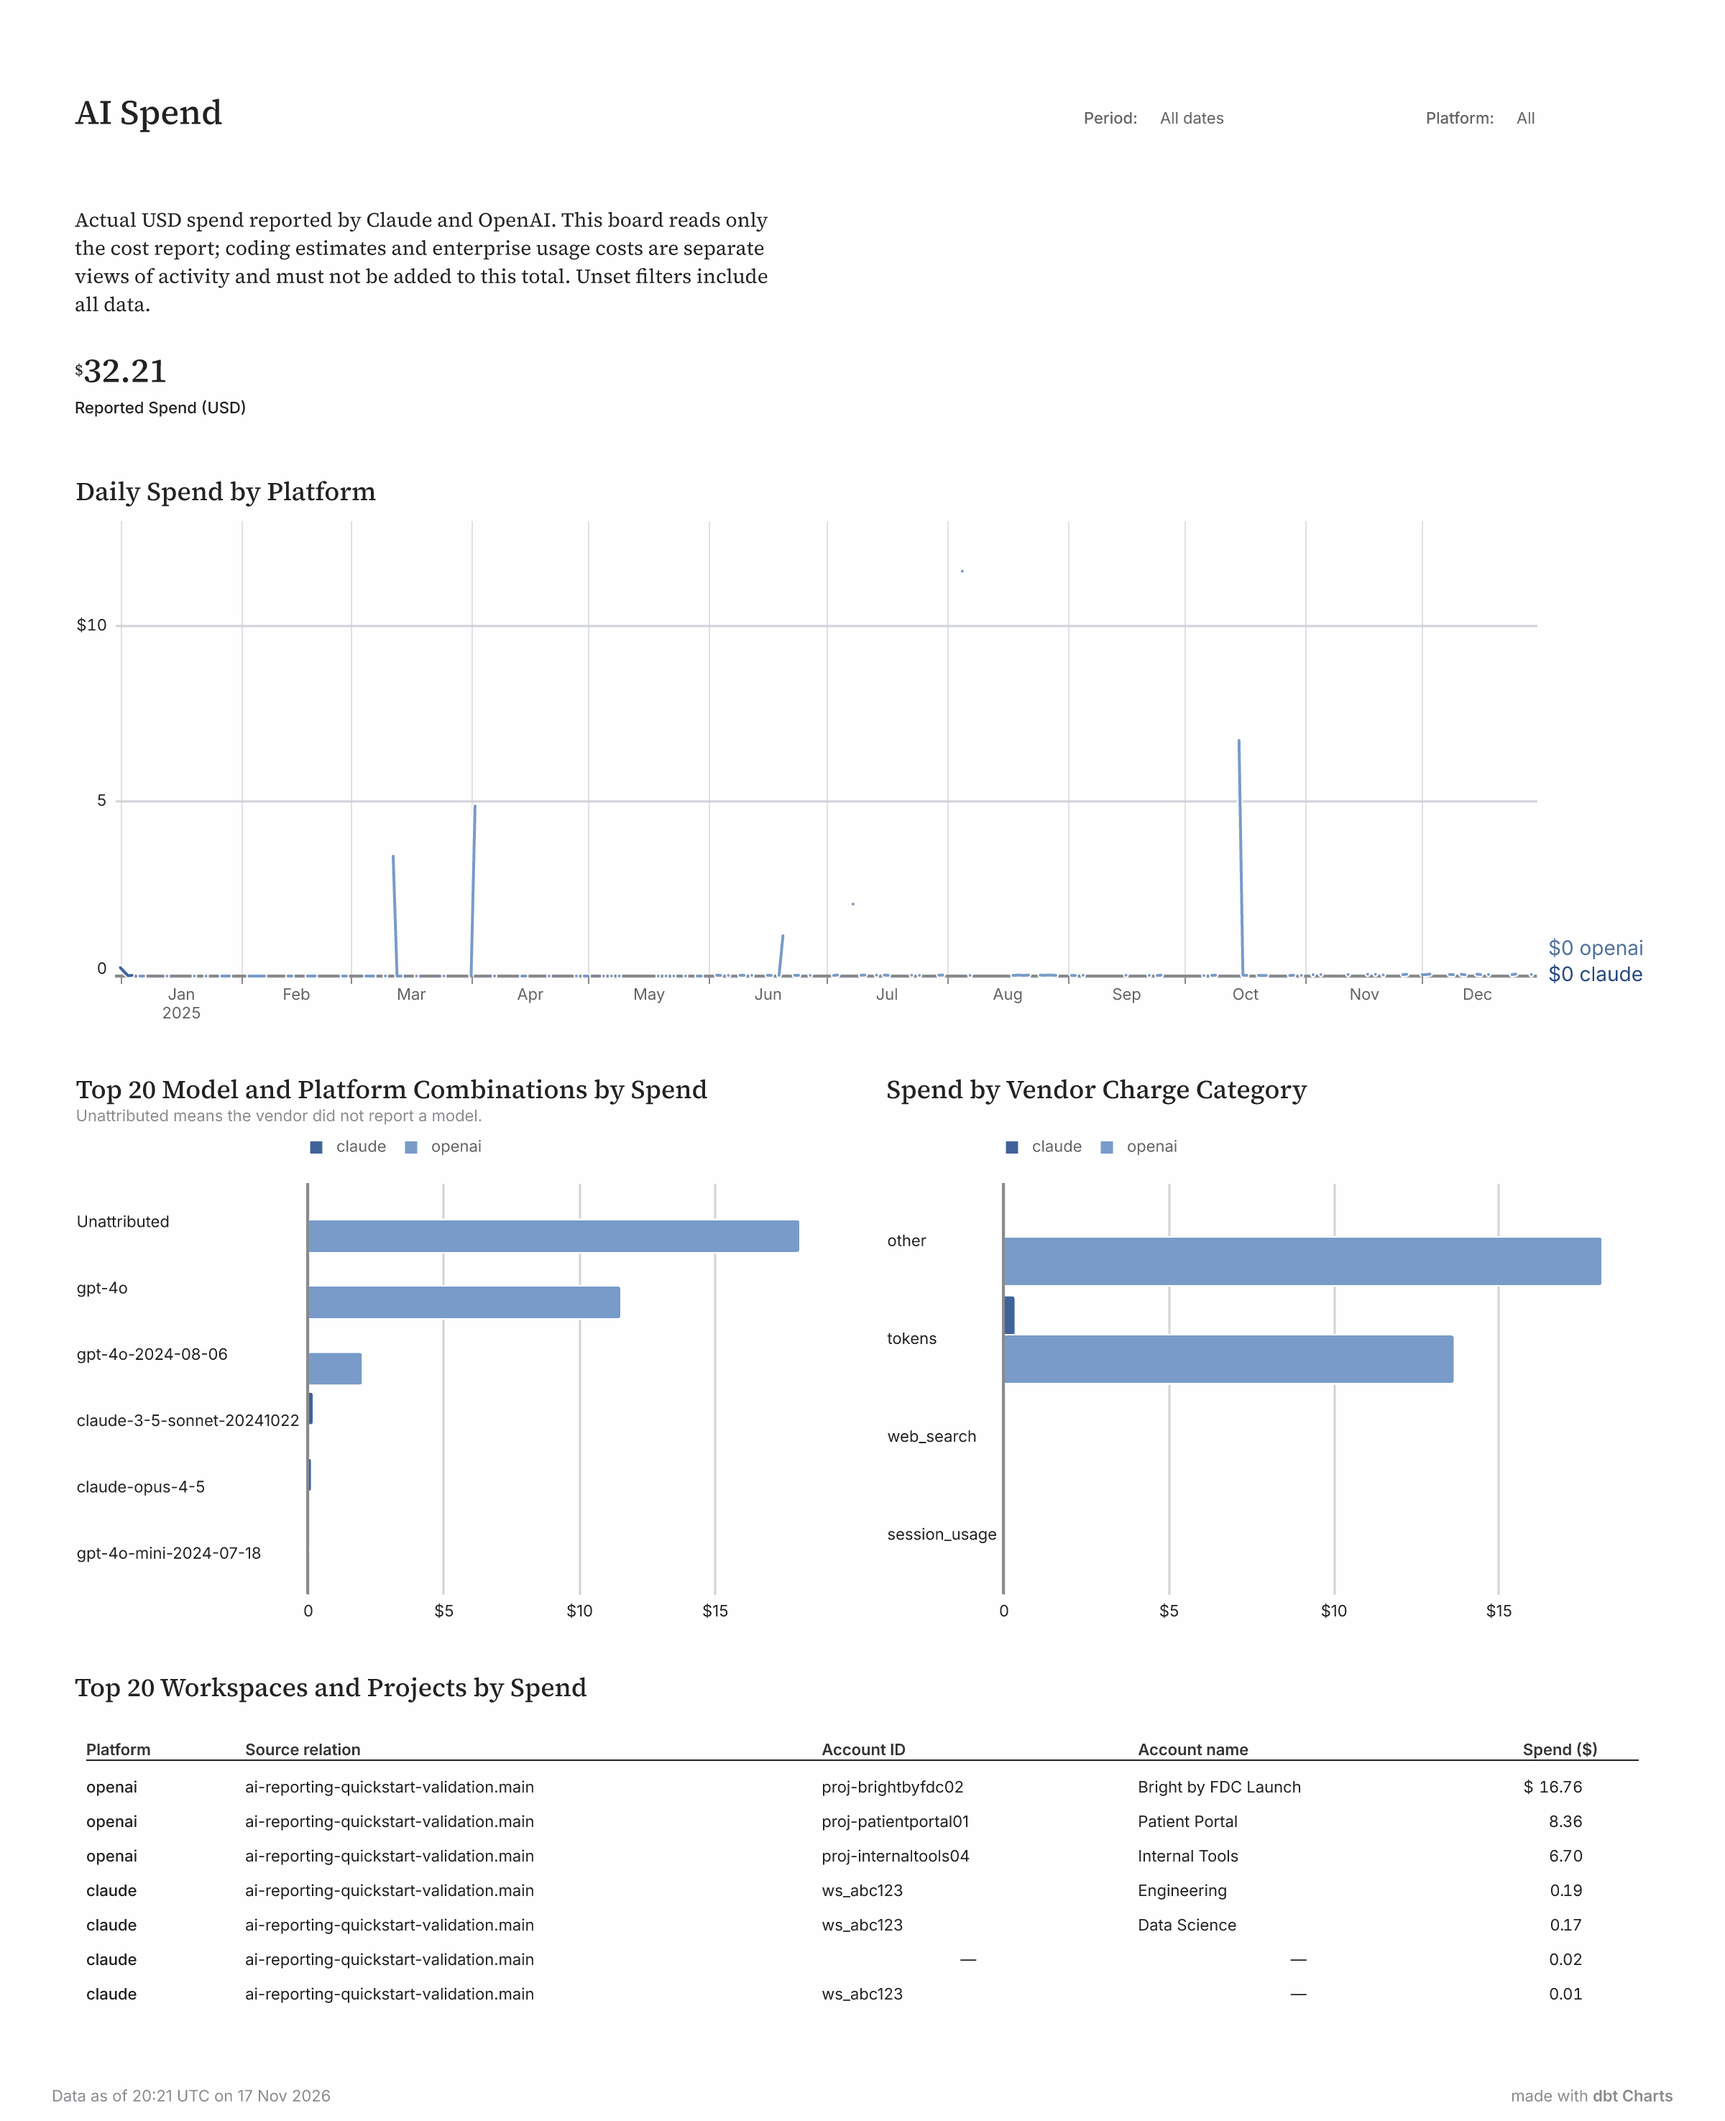
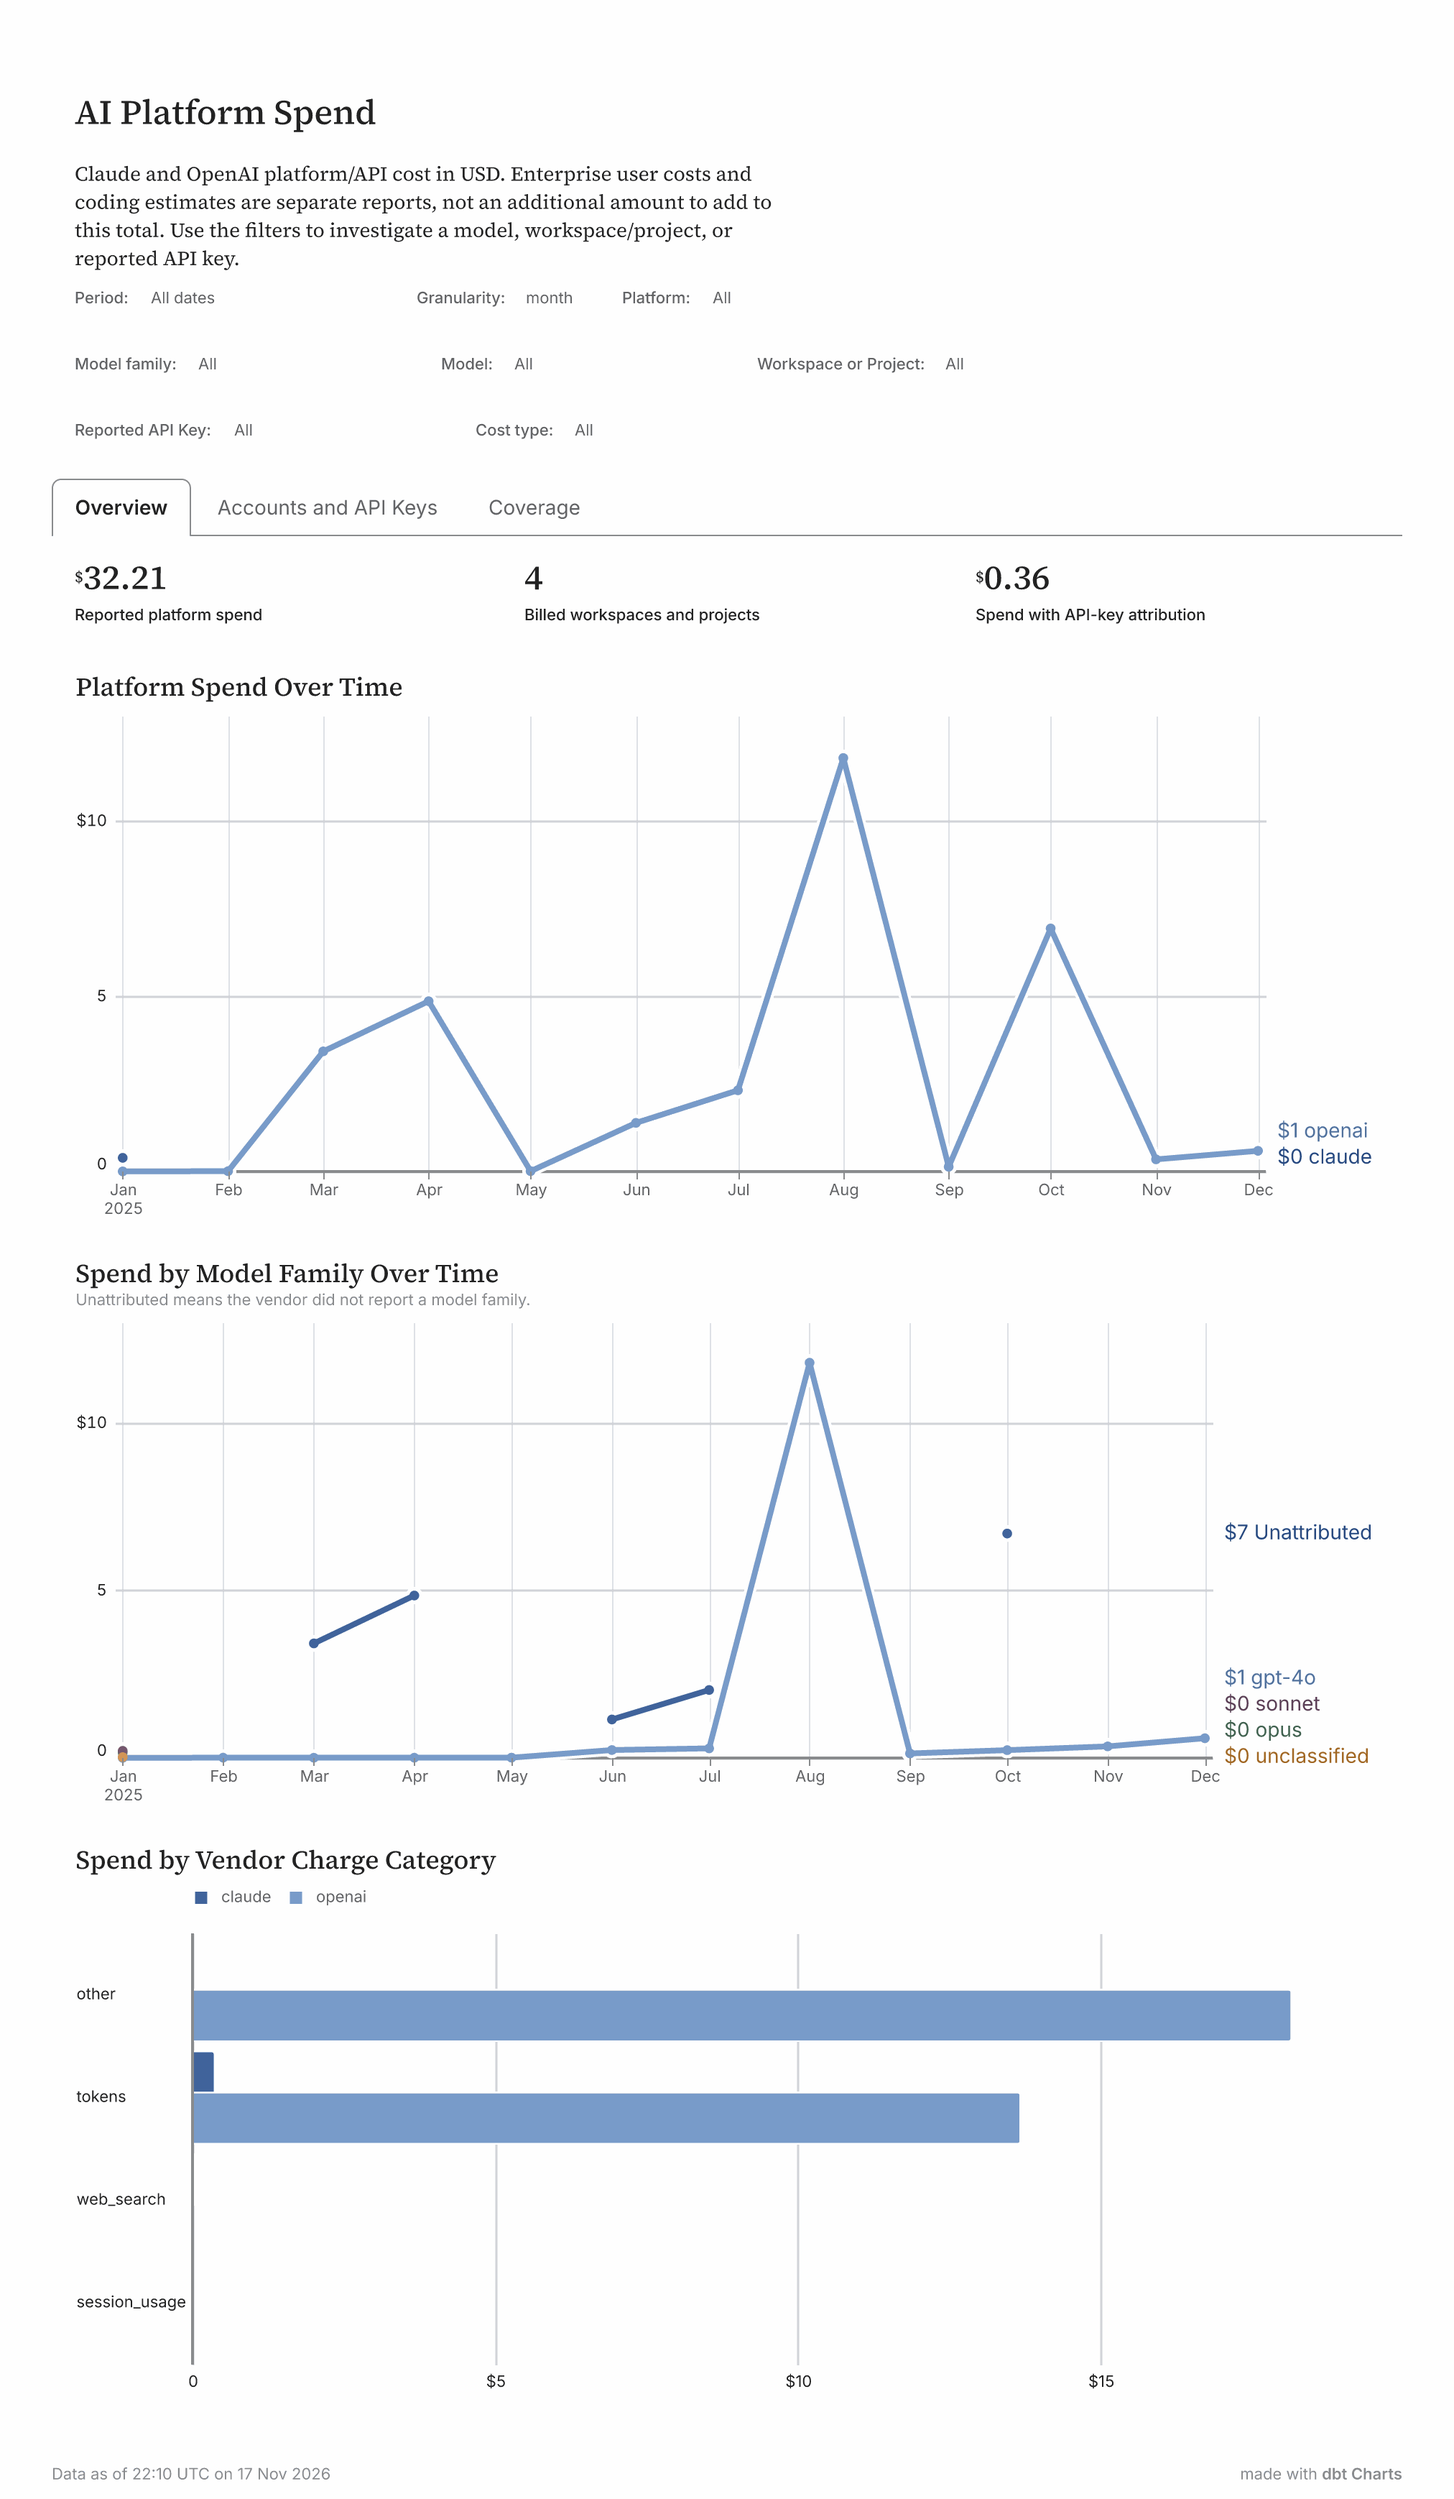
Expand AI boards with filters, trends, and cost drilldowns

diff --git a/charts/README.md b/charts/README.md
@@ -28,7 +28,9 @@ locations from its manifest; no company-specific database or schema is embedded.
 To customize a board, copy it into `charts/ai_reporting/` in your project.
 The project's copy replaces the package board of the same name. Render a
 customized copy with `dct render charts/ai_reporting/spend.yml --format html`.
-The boards offer a date range and platform filter. Unset filters include all
+The boards offer date and platform filters. The spend board also offers
+month/week/day granularity, model-family/model, workspace/project, charge-type,
+and reported API-key filters. The enterprise board adds product/model filters. Unset filters include all
 available history and platforms; they work with one platform enabled as well as
 both. A platform absent from a report does not appear in its filter.
 
@@ -50,7 +52,8 @@ both. A platform absent from a report does not appear in its filter.
   coding activity remains in volumes but is excluded from user counts and
   rankings. Product counts can overlap.
 - Enterprise quantities stay separated by vendor unit, product, and model.
-  OpenAI enterprise costs are unavailable; this board does not compare them.
+  The enterprise user table shows reported Claude costs; OpenAI enterprise
+  costs remain blank because they are unavailable, not zero.
 - Cursor is not supported by this package.
 
 ## Validation
@@ -74,6 +77,34 @@ These previews use only the package's integration-test seeds:
 - [AI Spend](previews/spend.png)
 - [AI Coding Activity](previews/coding-activity.png)
 - [AI Enterprise Adoption](previews/enterprise-adoption.png)
+- [Account drilldown](previews/spend-accounts.png)
+- [API-key drilldown](previews/spend-api-keys.png)
+- [Monthly spend matrix](previews/spend-monthly.png)
 
 Validated with dbt Charts `0.11.1.dev1374`, dbt Core `1.12.5`, and the DuckDB
 adapter `1.10.0`. No dbt model or Quickstart configuration changes are required.
+
+## Coverage compared with an enriched company cost board
+
+The spend board includes month/week/day trends, model-family and charge-category
+breakdowns, workspace/project and reported API-key drilldowns, and a monthly
+spend matrix. Its date and dimension filters apply to both the Overview and
+Accounts and API Keys tabs. Weekly periods start Monday.
+
+The underlying data is not a complete company AI bill:
+
+| Capability | Reusable package coverage |
+| --- | --- |
+| Claude and OpenAI platform/API cost | Cost report; both platforms in USD |
+| Model-family, model, account, and charge-category filters | Included in the spend board |
+| API-key attribution | Claude only; unavailable for OpenAI in the combined cost report |
+| Enterprise user cost | Claude only, shown separately on the enterprise board |
+| Coding costs | Separate estimates and credits with coverage counts |
+| Google/Gemini and Cursor | Not included in this package |
+| Departments, teams, cost centers, employee or API-key owners | Requires an organization's own directory and attribution models |
+| Finance approval, COGS tags, and budgets | Requires additional business sources and models |
+
+Organization enrichment belongs in modeled joins, not guessed labels or chart
+logic. To extend the boards with that data, build an enriched model in your own
+dbt project and customize the project-local board copy to query it. Reconcile
+billing scope before combining reports into a company-wide total.
